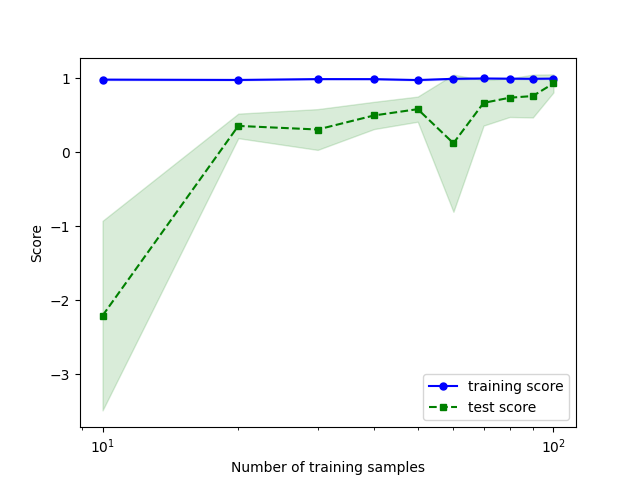
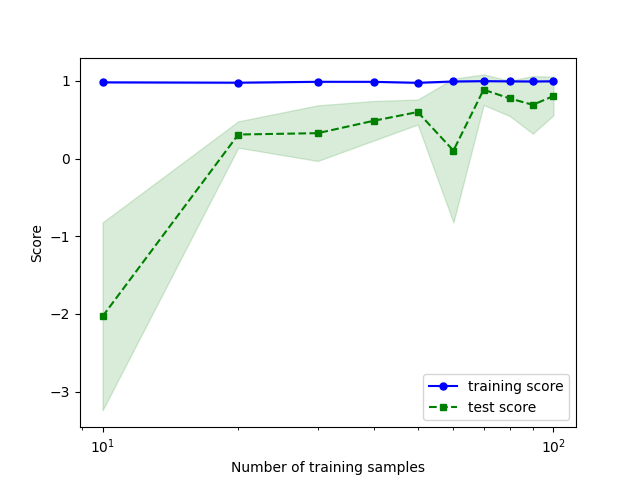
Updated model prediction to include ridge

diff --git a/model_predictions.py b/model_predictions.py
@@ -7,21 +7,21 @@ data = input('What do you want to predict? ')
 # clean combined dataframe
 type = input('Is the data for combined or triple? ')
 
+
+models_to_predict = ['linear', 'random_forest', 'descition_tree', 'ridge']
 # current models I have, though this will be added to and taken away with more data, with accuracy
 if type.lower()[0] == 'c':
-    combined_models_to_predict = ['combined_linear', 'combined_random_forest', 'combined_descition_tree']
     combined_models_to_predict_dict = {}
-    for s in combined_models_to_predict:
-        model = load('combined_models/' + s + '.joblib')
+    for s in models_to_predict:
+        model = load('combined_models/combined_' + s + '.joblib')
         combined_models_to_predict_dict[s] = model
     # check that the dict of files and models are correct
     print(combined_models_to_predict_dict)
 elif type.lower()[0] == 't':
-    tripe_models_to_predict = ['triple_linear', 'triple_random_forest', 'triple_descition_tree']
     triple_models_to_predict_dict = {}
     # populate a dict of model with the file so can apply them later as neeeded
-    for s in tripe_models_to_predict:
-        model = load('triple_models/' + s + '.joblib')
+    for s in models_to_predict:
+        model = load('triple_models/triple_' + s + '.joblib')
         triple_models_to_predict_dict[s] = model
         # check that the dict of files and models are correct
     print(triple_models_to_predict_dict)
@@ -40,7 +40,7 @@ if type.lower()[0] == 'c':
         if isinstance(data, str):
             print('oops')
         elif isinstance(data, pd.DataFrame):
-                encoder = load('combined_models/' + k + '_encoding.joblib')
+                encoder = load('combined_models/combined_' + k + '_encoding.joblib')
                 encoded_data = encoding.new_data_one_hot(data, encoder)
                 prediction = v.predict(encoded_data)
                 pred_df = pd.DataFrame({k+'_predicted grades': prediction})
@@ -86,7 +86,7 @@ elif type.lower()[0] == 't':
             print('oops')
         elif isinstance(data, pd.DataFrame):
         # Doesn't work, probably because 3 numpy array at a guess
-                encoder = load('triple_models/' + k + '_encoding.joblib')
+                encoder = load('triple_models/triple_' + k + '_encoding.joblib')
                 encoded_data = encoding.new_data_one_hot(data, encoder)
                 prediction = v.predict(encoded_data)
                 outcomes[k] = prediction

diff --git a/ridge.py b/ridge.py
@@ -5,6 +5,7 @@ from sklearn.linear_model import Ridge
 from sklearn.model_selection import train_test_split, KFold, cross_val_score, learning_curve
 from sklearn.metrics import  r2_score, mean_squared_error
 import matplotlib.pyplot as plt
+from joblib import dump
 
 # import whatever file I want to test
 file_name = input('What file do you want to test? ')
@@ -66,3 +67,14 @@ plt.legend(loc='lower right')
 plt.ylim([0, 1])
 plt.show()
 plt.savefig("model_graphs/" + file_name + "ridge.png", )
+
+save = input('should it be saved? ')
+if save[0].strip().lower() == 'y':
+    if type_science.lower()[0] == 'c':
+        dump(model, 'combined_models/combined_ridge.joblib')
+        dump(encoder, 'combined_models/combined_ridge_encoding.joblib')
+        print('Model save')
+    else:
+        dump(model, 'triple_models/triple_ridge.joblib')
+        dump(encoder, 'triple_models/triple_ridge.joblib')
+        print('Model save')

diff --git a/undersampling.py b/undersampling.py
@@ -4,8 +4,9 @@ from grades_packages import df_columns
 
 grades_normal = pd.read_csv('csv_clean/clean_combined.csv')
 
-majority_class = pd.DataFrame()
-minority_class = pd.DataFrame()
+# Create empty DataFrames for majority and minority classes
+majority_class = pd.DataFrame(columns=grades_normal.columns)
+minority_class = pd.DataFrame(columns=grades_normal.columns)
 
 for col in grades_normal.columns:
     if col in df_columns.combined_grades():
@@ -27,4 +28,7 @@ undersampled_df = undersampled_df.dropna()
 # Shuffle the DataFrame to randomize the order of samples
 undersampled_df = undersampled_df.sample(frac=1, random_state=42).reset_index(drop=True)
 
-undersampled_df.to_csv('csv_clean/combined_undersample.csv')
+undersampled_df = undersampled_df.drop("Unnamed: 0", axis=1)
+
+# Save the undersampled DataFrame to CSV without the index column
+undersampled_df.to_csv("csv_clean/combined_undersample.csv")
